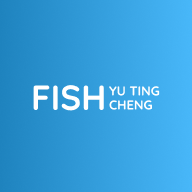
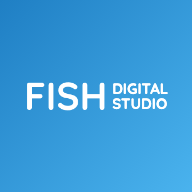
重做分享圖與主畫面圖示、統一文案（FAQ 價格與時程、需求類型、作品狀態）、成功區塊垂直置中

Changed region(s): [[0.125, 0.4062, 0.875, 0.5938], [0.75, 0.0, 1.0, 0.375], [0.0, 0.875, 0.0625, 1.0]]

diff --git a/src/content.ts b/src/content.ts
@@ -6,8 +6,6 @@ export const studio = {
   // 聯絡資訊：留空的欄位不會顯示
   email: '',
   location: '全台服務',
-  responseTime: '1 個工作天內回覆',
-  responseNote: '（六日、國定假日除外）',
   // 表單寄信：EmailJS（用連結的 Gmail 寄出，信件樣板在 email-templates/，貼在 EmailJS 後台）
   // 這幾個值本來就是公開在前端使用的；publicKey 留空時表單為「預覽模式」，不會真的送出
   emailjs: {
@@ -100,7 +98,7 @@ export const rescue = {
   price: '依項目個別報價',
   cta: '找我們接手',
   // 主要狀況：放在四張常見狀況的正中央浮動
-  highlight: { icon: 'devices', title: '技術、版型太舊', desc: '想改成響應式版型，符合現代人手一機的瀏覽操作，手機也能順利操作！' },
+  highlight: { icon: 'devices', title: '技術、版型太舊', desc: '想改成響應式版型，符合現代人手一機的瀏覽習慣，手機也能順利操作！' },
   // 常見狀況
   cases: [
     { icon: 'block', title: '服務商不願意調整', desc: '想改個文字、換張圖，對方卻說做不到或不處理。' },
@@ -275,7 +273,7 @@ export const works: Work[] = [
 export const statusLabel: Record<WorkStatus, string> = {
   live: '已上線',
   beta: '測試中',
-  soon: '即將推出',
+  soon: '開發中',
 }
 
 export const process = [
@@ -304,7 +302,7 @@ export const faqs = [
   },
   {
     q: '網站做完後，還找得到人嗎？',
-    a: '一定找得到。從洽談、製作到上線都是同一個窗口，不轉包；上線後一樣 1 個工作天內回覆，保固期內免費修正，之後也能長期合作維護。網站與各項帳號都登記在你名下，也不怕被綁住。',
+    a: '一定找得到。上線後一樣有固定窗口可以聯絡，保固期內免費修正，之後也能長期合作維護。網站與各項帳號都登記在你名下，也不怕被綁住。',
   },
   {
     q: '金流帳號要自己申請嗎？',
@@ -316,11 +314,11 @@ export const faqs = [
   },
   {
     q: '網站製作大概需要多久？',
-    a: '一般形象官網約 3–6 週；含金流的購物網站會依商品與功能多寡另外評估。實際時程會在報價時明確列出。',
+    a: '選擇固定價格方案，內容與資料準備好就能快速上線；客製化網站則依頁數與功能多寡評估。實際時程會在報價時明確列出。',
   },
   {
     q: '費用怎麼計算？',
-    a: '依網站頁數、功能，以及需要的金流、LINE、社群等項目組合而定。填寫下方表單描述需求後，會提供免費初步評估與報價。',
+    a: '預約與購物網站有固定價格方案（小資經營 NT$6,999、商品販售 NT$16,999），價格透明；需要客製功能，或只委託金流、LINE、社群等單項服務，則依需求內容報價。填寫下方表單描述需求後，會提供免費初步評估。',
   },
   {
     q: '用 AI 架的網站，品質會比較差嗎？',
@@ -342,7 +340,8 @@ export const contact = {
     { icon: 'deployed_code', title: '一條龍全包辦', desc: '網站、金流、LINE、社群一次整合，原始碼與帳號完整交付。' },
     { icon: 'build', title: '舊網站也能接手', desc: '原廠商不處理或聯絡不上的網站，也可以交給我們整理、修改。' },
   ],
-  serviceOptions: ['一條龍全包', '品牌網站', '購物網站／金流', 'LINE 官方帳號', '社群整合', '網站改版', '維護合作', '其他'],
+  // 對應收費方案與服務：預約（小資經營）、購物（商品販售）、品牌網站（客製）、網站救援（舊網站接手）
+  serviceOptions: ['線上預約', '購物網站／金流', '品牌形象網站', 'LINE 官方帳號', '社群整合', '一條龍全包', '舊網站接手', '其他'],
   // 方案與預算：先列出有固定價格的方案（名稱、價格直接取自 pricing，改價格會自動同步），再接預算區間
   budgetOptions: [
     '尚未確定',

diff --git a/src/components/ContactForm.tsx b/src/components/ContactForm.tsx
@@ -70,12 +70,11 @@ export function ContactForm() {
 
   if (status === 'success') {
     return (
-      <div className="flex min-h-105 flex-col items-center justify-center rounded-3xl border border-line bg-white p-10 text-center shadow-[0_30px_60px_-30px_rgba(8,38,66,0.25)]">
+      <div className="my-auto flex min-h-105 flex-col items-center justify-center rounded-3xl border border-line bg-white p-10 text-center shadow-[0_30px_60px_-30px_rgba(8,38,66,0.25)]">
         <span className="icon text-[56px]! text-brand">mark_email_read</span>
         <h3 className="mt-4 text-[22px] font-bold">已收到你的訊息！</h3>
         <p className="mt-2 text-muted">
-          我們會在 {studio.responseTime}，請留意你的信箱。
-          <br /><span className="text-[13px] text-muted/80">{studio.responseNote}</span>
+          我們會盡快與你聯絡，請留意你的信箱。
           {isPreview && <><br /><span className="text-[13px] text-amber-600">（目前為預覽模式，表單尚未實際寄出）</span></>}
         </p>
         <button type="button" onClick={() => setStatus('idle')} className="btn btn-outline mt-8">

diff --git a/src/StudioApp.tsx b/src/StudioApp.tsx
@@ -979,7 +979,7 @@ function Pricing() {
                   }`}
                 >
                   {p.featured && (
-                    <span className="absolute -top-3 left-7 rounded-full bg-brand px-3 py-1 text-[12px] font-bold text-white lg:left-10">最多人選擇</span>
+                    <span className="absolute -top-3 left-7 rounded-full bg-brand px-3 py-1 text-[12px] font-bold text-white lg:left-10">推薦</span>
                   )}
                   {/* 標籤列固定高度，沒有標籤的卡片也留位，三張的標題與價格才會對齊 */}
                   <div className="mb-3 h-6">
@@ -2051,7 +2051,8 @@ function Contact() {
             )}
           </ul>
         </Reveal>
-        <Reveal delay={0.1} className="text-ink">
+        {/* 右欄做成直向 flex：送出後的成功區塊可以用 my-auto 跟左欄垂直置中 */}
+        <Reveal delay={0.1} className="flex flex-col text-ink">
           <ContactForm />
         </Reveal>
       </div>
